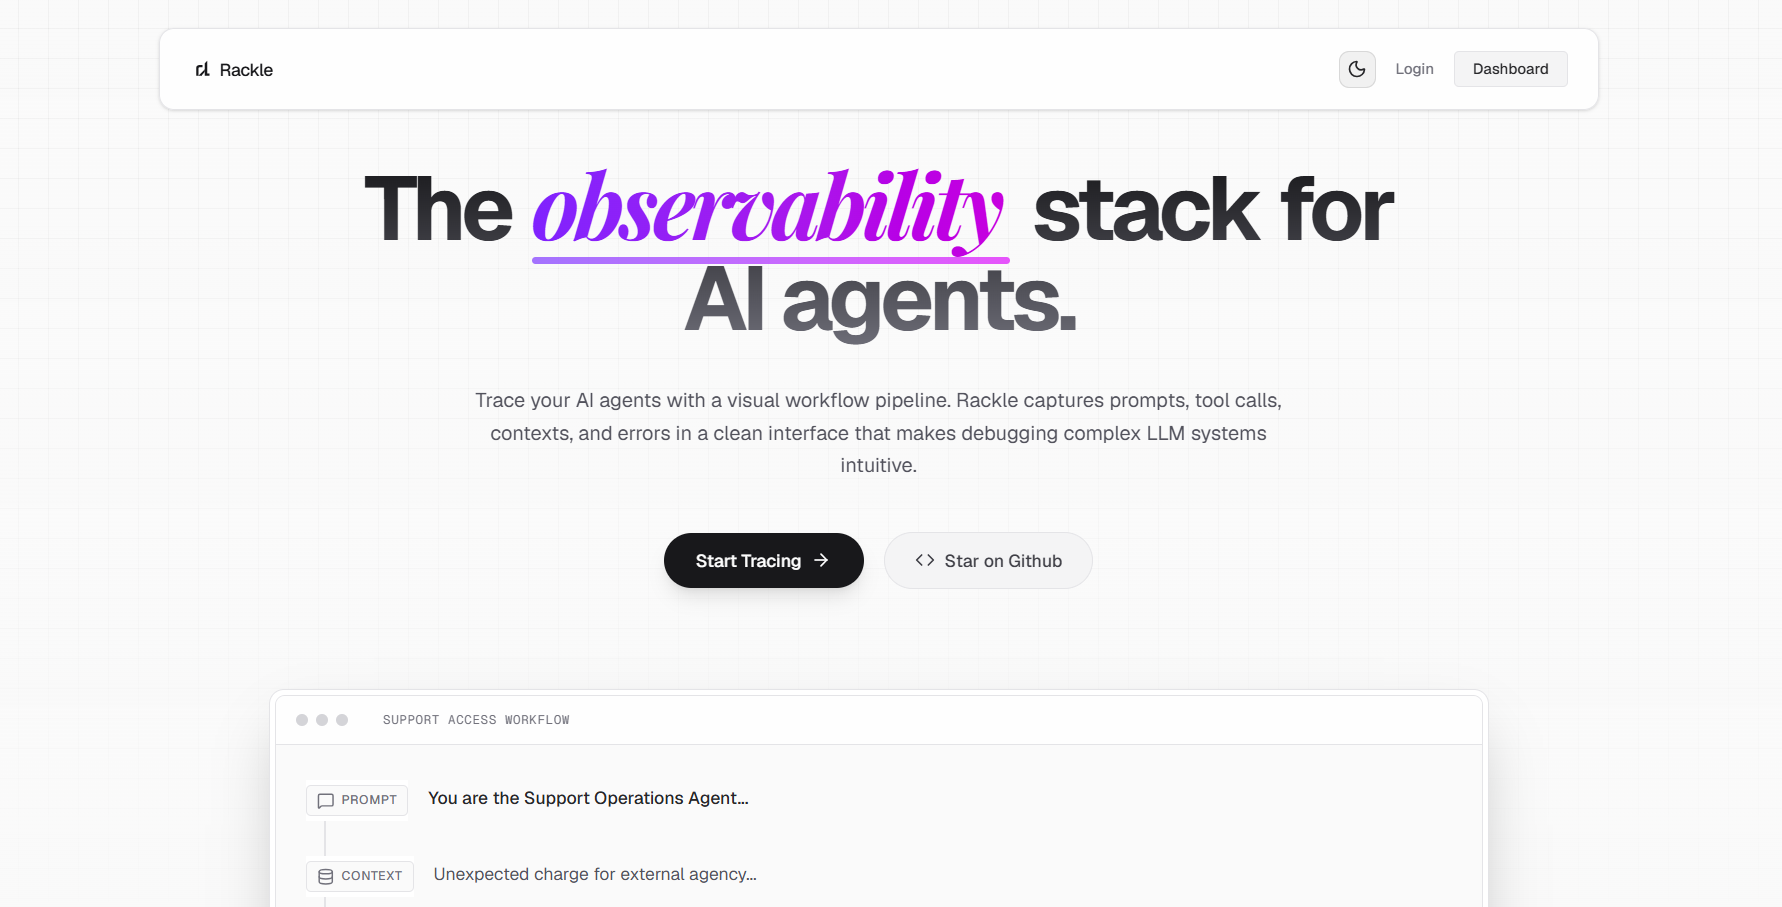
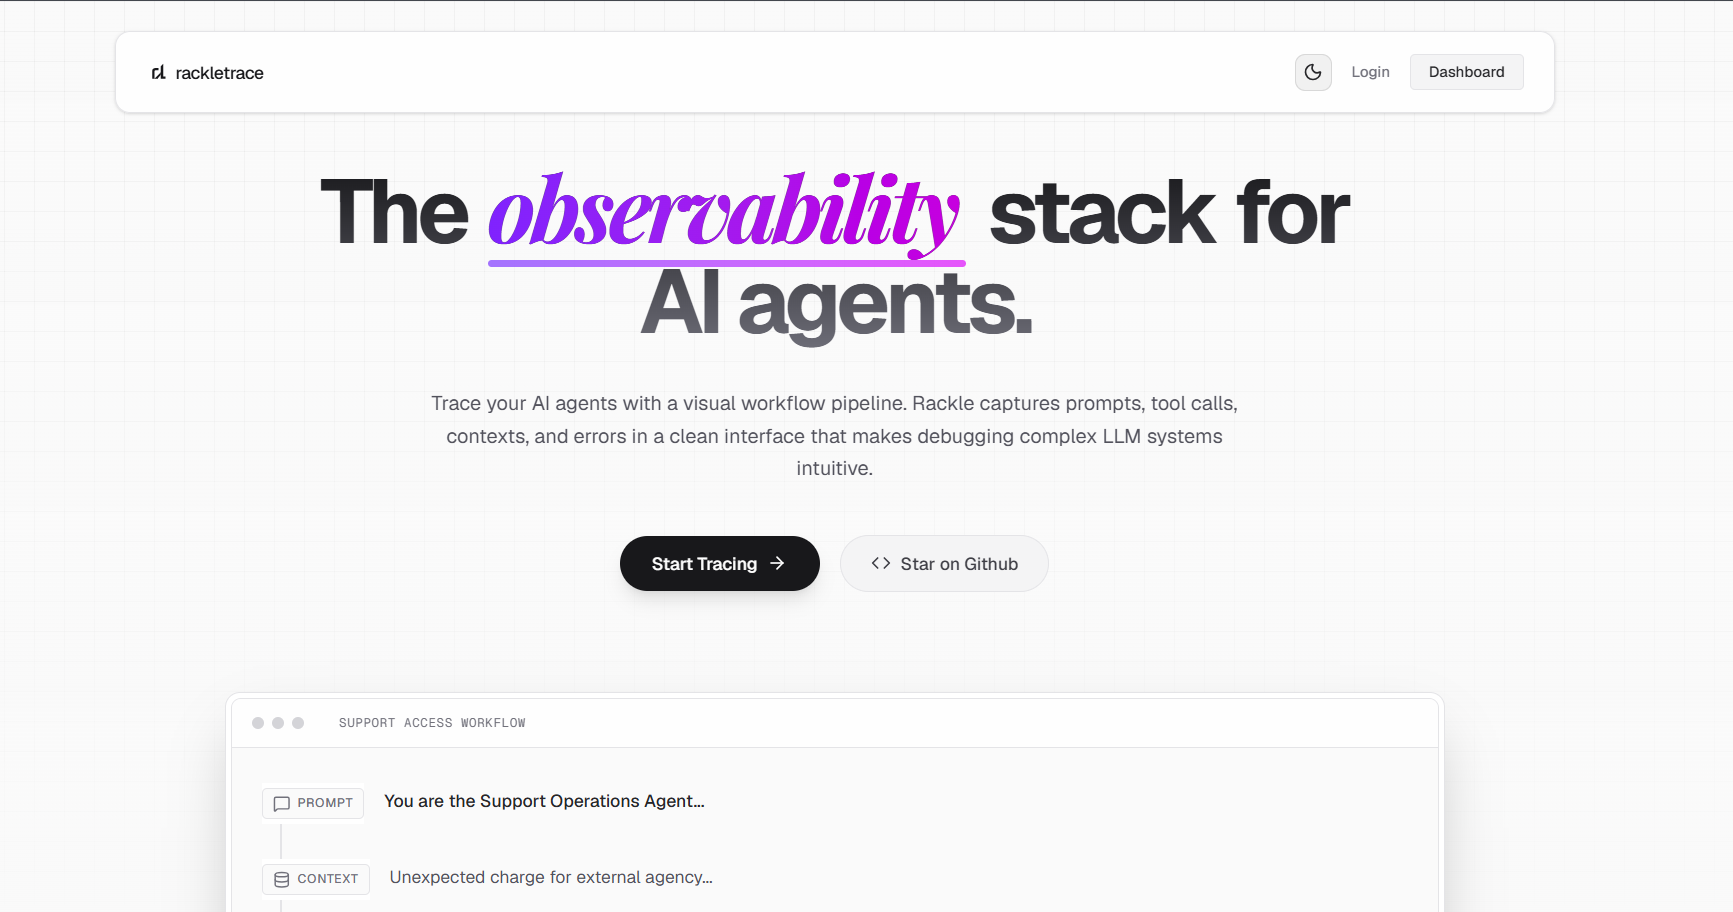
refactor: rename Rackle to rackletrace

diff --git a/frontend/app/layout.tsx b/frontend/app/layout.tsx
@@ -20,8 +20,8 @@ const playfair = Playfair_Display({
 })
 
 export const metadata: Metadata = {
-  title: 'Rackle',
-  description: 'Rackle helps you observe, debug, and control your AI Agents',
+  title: 'Rackletrace',
+  description: 'Rackletrace helps you observe, debug, and control your AI Agents',
 }
 
 export default function RootLayout({

diff --git a/frontend/app/page.tsx b/frontend/app/page.tsx
@@ -136,7 +136,7 @@ export default function Home() {
               <path d="M34 75l25-25v9L46 75H34z" />
             </svg>
             <span className="font-medium text-sm tracking-tight text-zinc-900 dark:text-zinc-100">
-              Rackle
+              rackletrace
             </span>
           </div>
           <div className={`flex items-center gap-4 transition-all duration-500 cubic-bezier(0.16, 1, 0.3, 1) origin-right ${